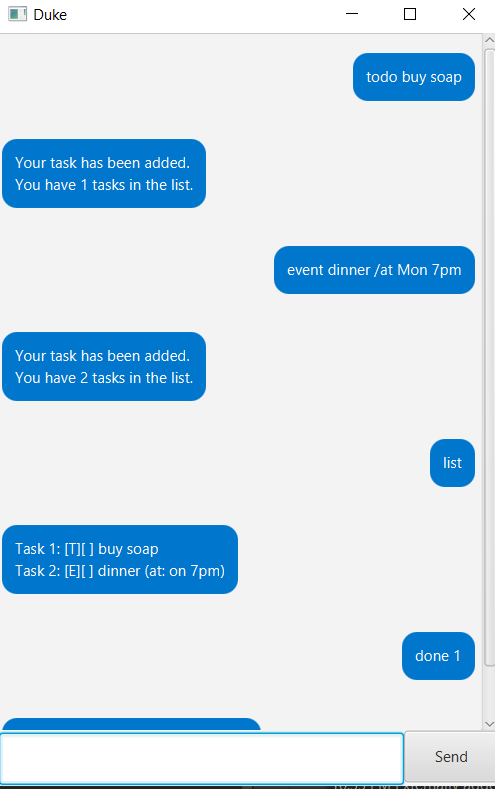
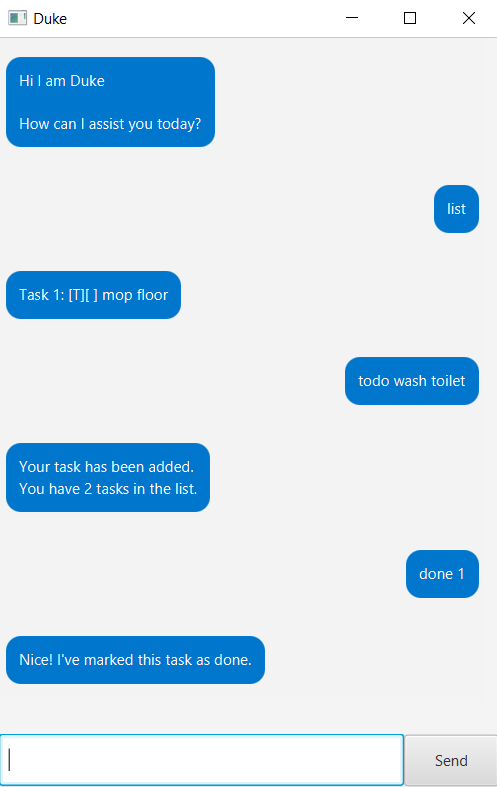
Update startup message and fix read storage issue.

diff --git a/src/main/java/seedu/duke/Storage.java b/src/main/java/seedu/duke/Storage.java
@@ -24,6 +24,24 @@ public class Storage {
         BufferedReader fileRead = new BufferedReader(new FileReader("TaskDB.txt"));
         String line = fileRead.readLine();
         while (line != null) {
+
+            if (line.contains("todo")) {
+                Main.taskList.addToDo(line);
+                line = fileRead.readLine();
+                continue;
+            }
+            if (line.contains("deadline")) {
+                Main.taskList.addDeadline(line);
+                line = fileRead.readLine();
+                continue;
+            }
+
+            if (line.contains("event")) {
+                Main.taskList.addDeadline(line);
+                line = fileRead.readLine();
+                continue;
+            }
+
             line = fileRead.readLine();
         }
         System.out.println("You have " + taskList.getSize() + " tasks in your record.");

diff --git a/src/main/java/seedu/duke/Message.java b/src/main/java/seedu/duke/Message.java
@@ -10,7 +10,7 @@ public class Message {
 
     static {
         Map<String,String> message = new HashMap<>();
-        message.put("GREETING","Hi I’m Duke\n[input]\nHow can I assist you today?");
+        message.put("GREETING","Hi I am Duke\n[input]\nHow can I assist you today?");
         message.put("HELP_MESSAGE", "Please refer to the user guide for a quick reference.\n"
                 + "If you have any other question, do drop us an email at support@duke.com. See you!");
         message.put("BYE_MESSAGE", "Bye. Your tasks have been recorded.\n Hope to see you again soon!");

diff --git a/src/main/java/seedu/duke/Duke.java b/src/main/java/seedu/duke/Duke.java
@@ -128,6 +128,8 @@ public class Duke extends Application {
         try {
             String command = new Parser().parseInput(userInput);
             switch (command) {
+            case "greet":
+                return (Message.getVal("GREETING",""));
             case "bye":
                 return (Message.getVal("BYE_MESSAGE"));
             case "todo":

diff --git a/src/main/java/seedu/duke/MainWindow.java b/src/main/java/seedu/duke/MainWindow.java
@@ -30,6 +30,9 @@ public class MainWindow extends AnchorPane {
     @FXML
     public void initialize() {
         scrollPane.vvalueProperty().bind(dialogContainer.heightProperty());
+        dialogContainer.getChildren().addAll(
+                DialogBox.getGreeting()
+        );
     }
 
     public void setDuke(Duke d) {

diff --git a/src/main/java/seedu/duke/DialogBox.java b/src/main/java/seedu/duke/DialogBox.java
@@ -61,4 +61,11 @@ public class DialogBox extends HBox {
         db.flip();
         return db;
     }
+
+    public static DialogBox getGreeting() { //, Image img
+        var reply = Duke.run("greet");
+        var db = new DialogBox(reply);//text, img
+        db.flip();
+        return db;
+    }
 }

diff --git a/src/main/java/seedu/duke/Parser.java b/src/main/java/seedu/duke/Parser.java
@@ -44,6 +44,9 @@ public class Parser {
         if (userInput.contains("help")) {
             command = "help";
         }
+        if (userInput.contains("greet")) {
+            command = "greet";
+        }
         return command;
     }
 

diff --git a/docs/README.md b/docs/README.md
@@ -33,11 +33,6 @@ Prerequisites: JDK 11, update Intellij to the most recent version.
 ```
     
 Hi I’m Duke
-  ____        _        
- |  _ \\ _   _| | _____ 
- | | | | | | | |/ / _ \\
- | |_| | |_| |   <  __/
- |____/ \\__,_|_|\\_\\__
 How can I assist you today?
 	
    ```

diff --git a/docs/UserGuide.md b/docs/UserGuide.md
@@ -33,11 +33,6 @@ Prerequisites: JDK 11, update Intellij to the most recent version.
 ```
     
 Hi I’m Duke
-  ____        _        
- |  _ \\ _   _| | _____ 
- | | | | | | | |/ / _ \\
- | |_| | |_| |   <  __/
- |____/ \\__,_|_|\\_\\__
 How can I assist you today?
 	
    ```
